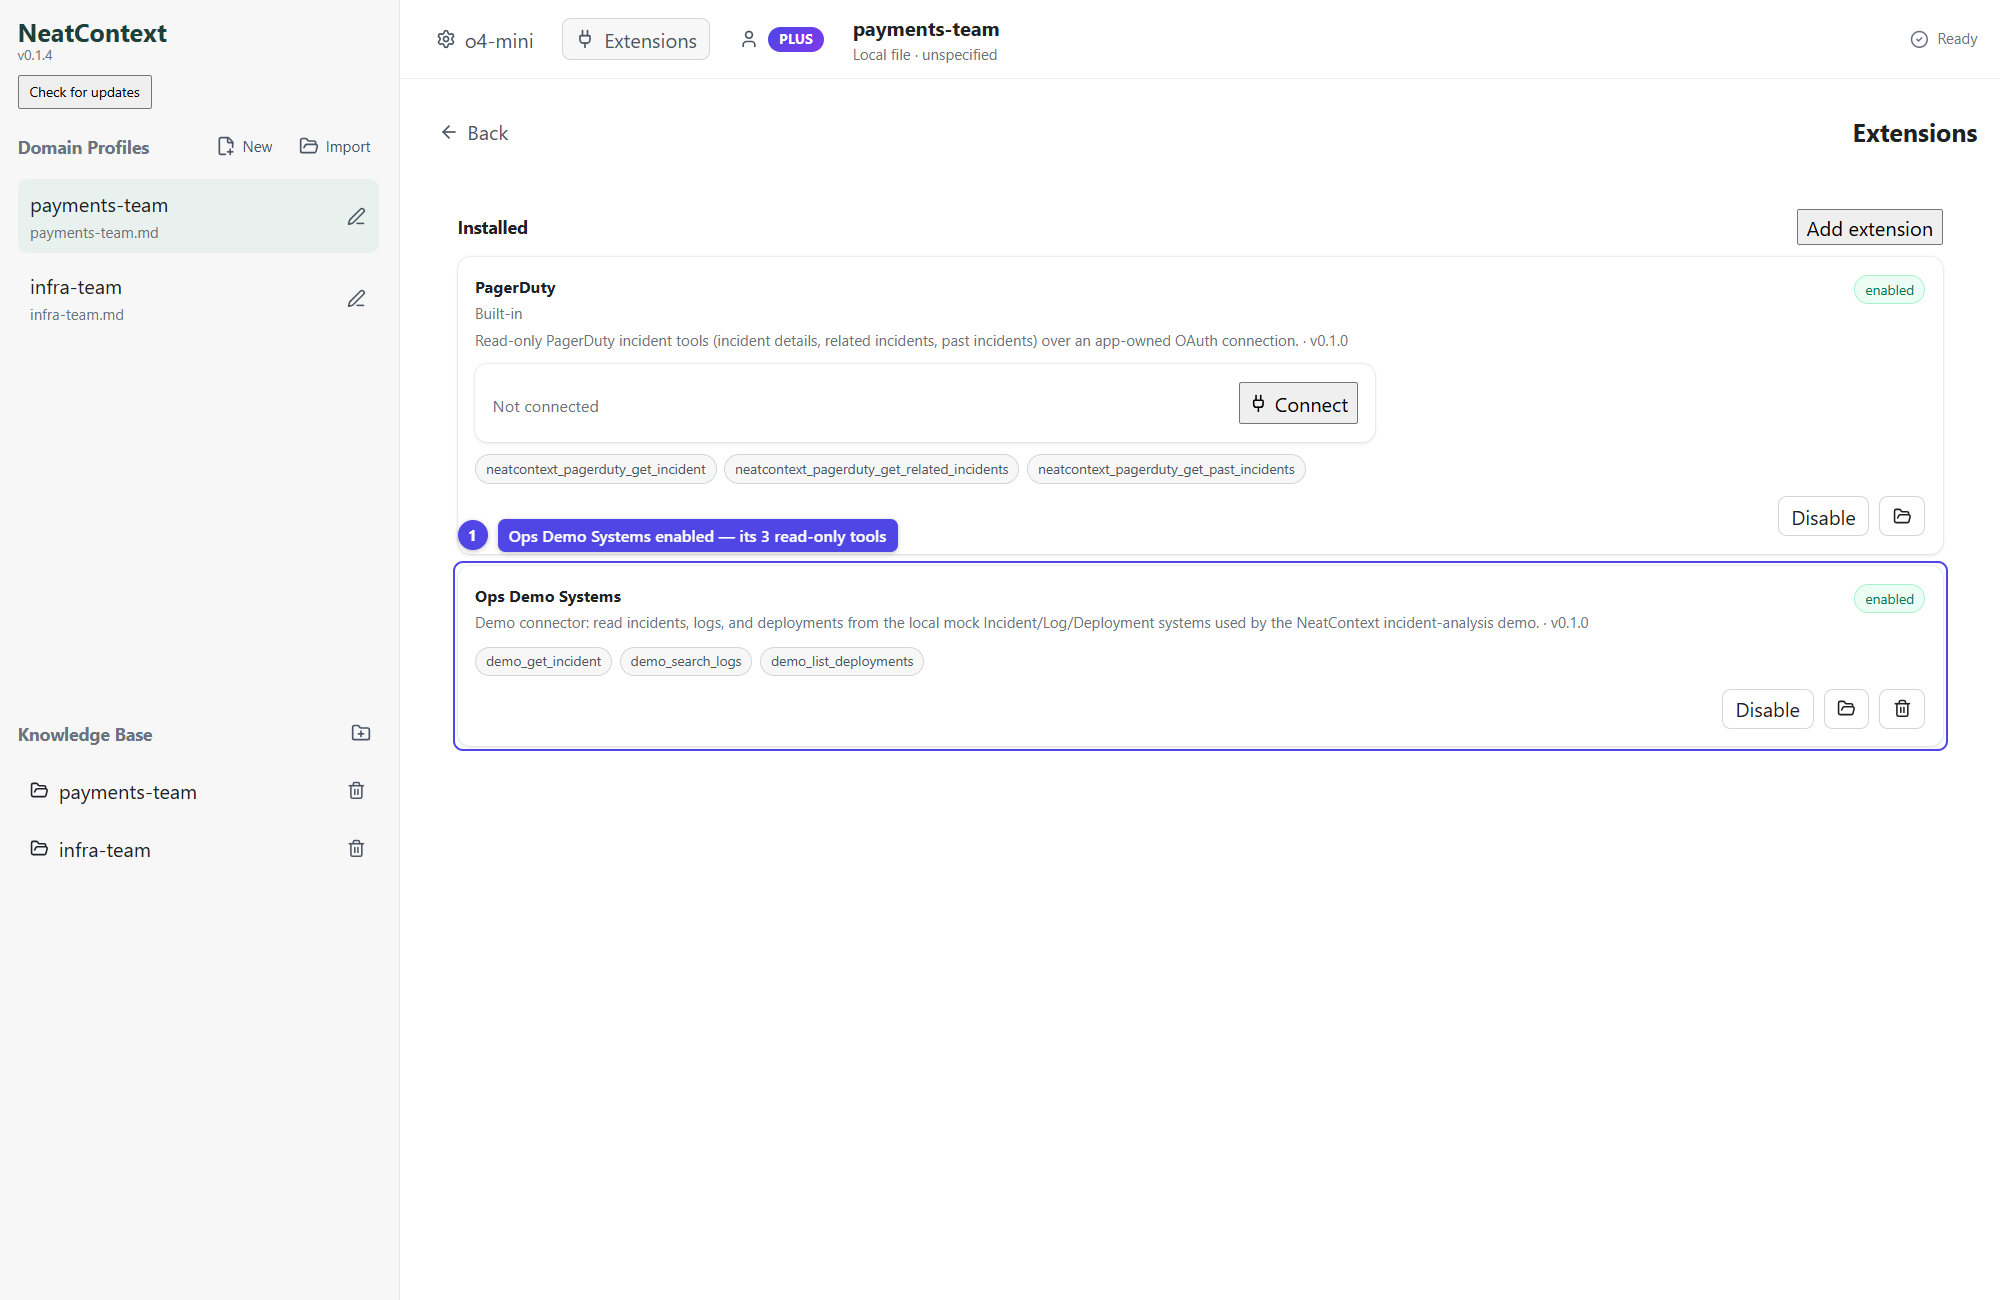
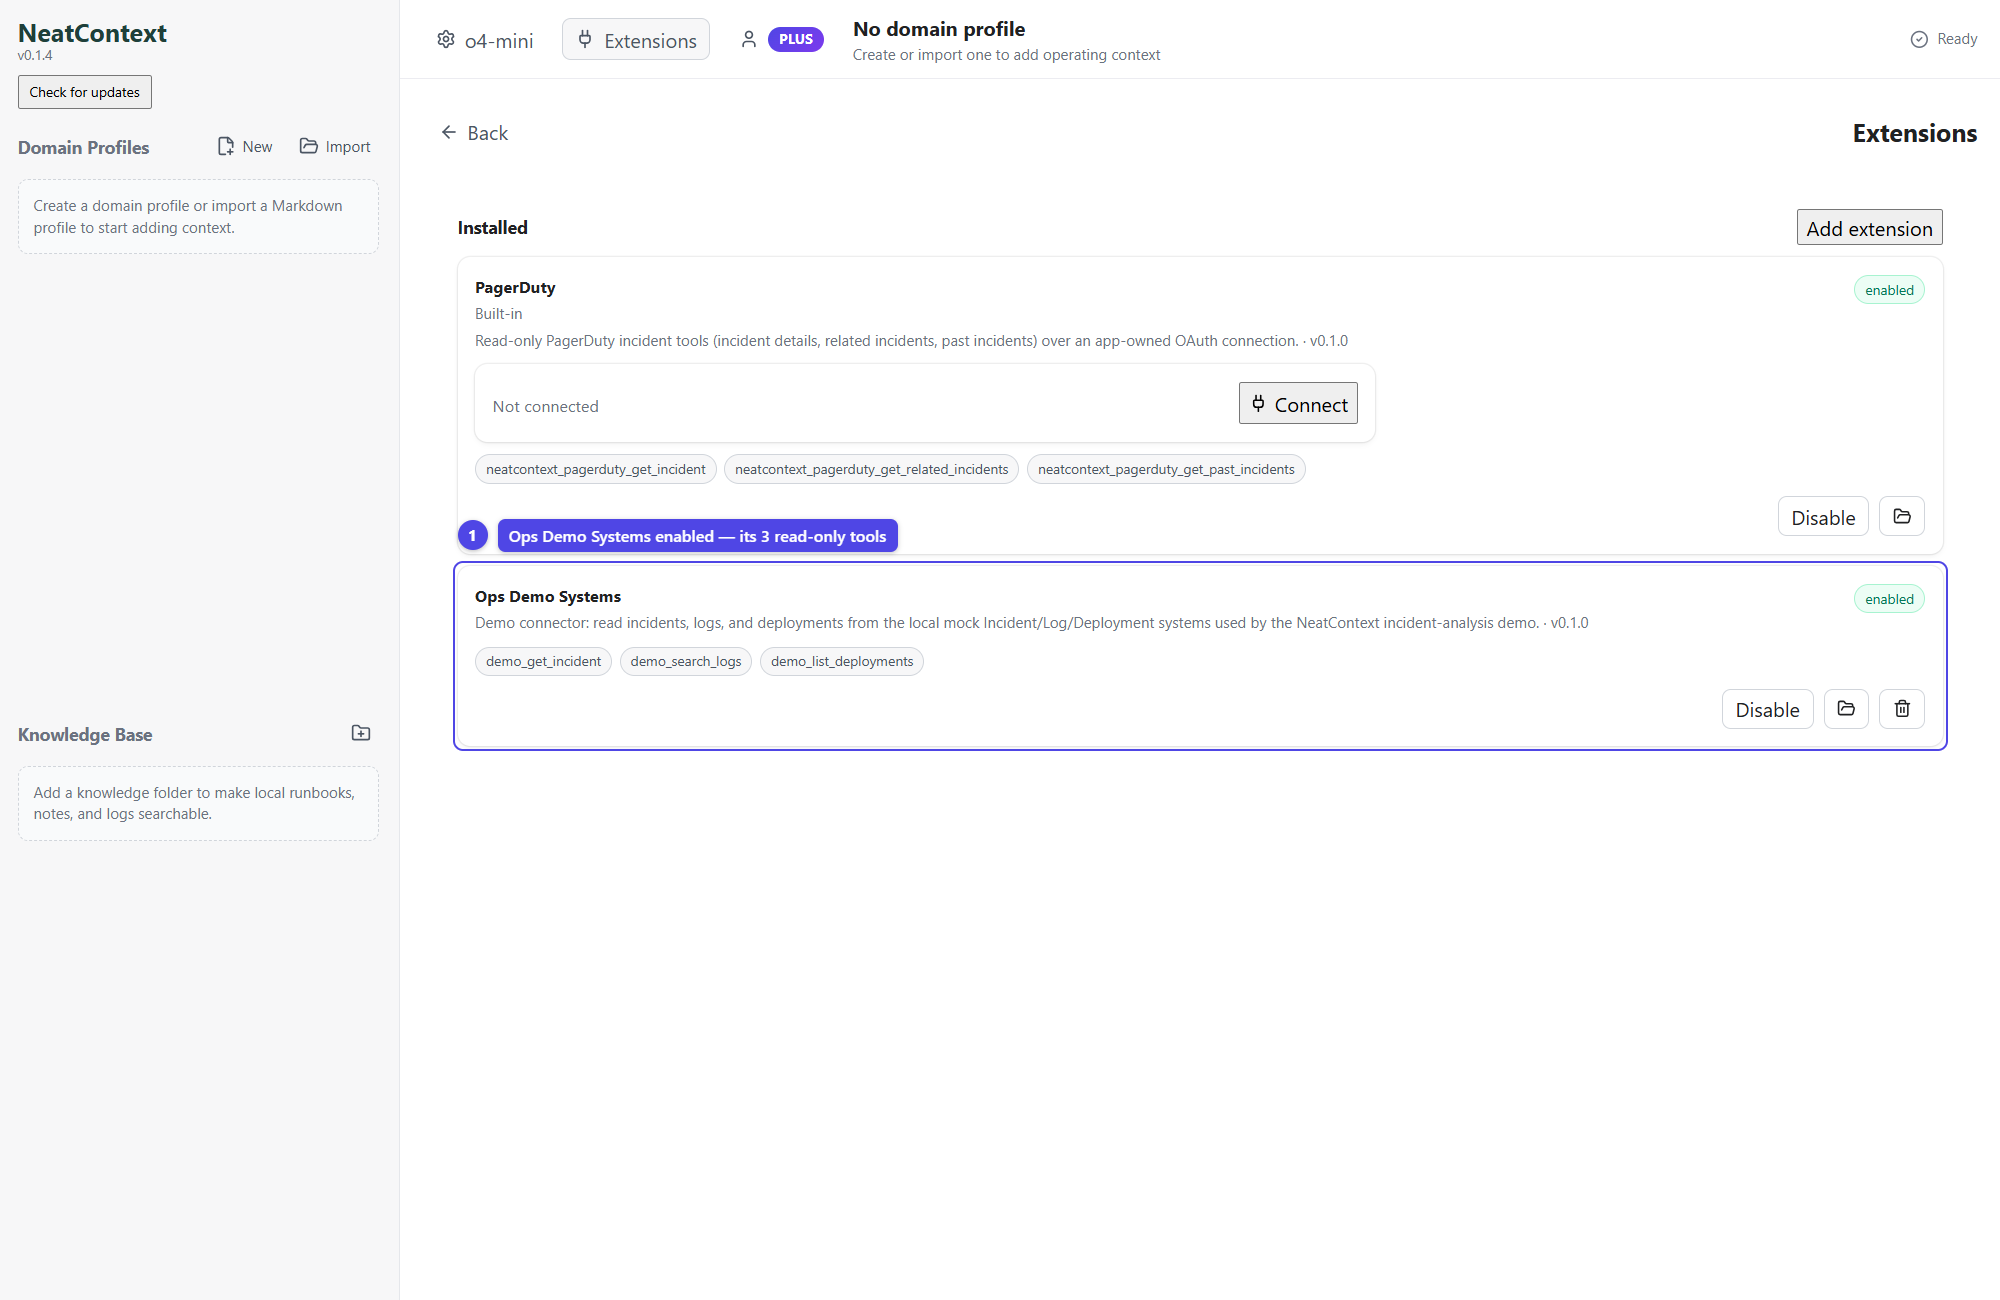
docs: show empty workspace in Steps 3-4 screenshots
Steps 3-4 (configure model, add extension) happen before any domain profile or
knowledge base is imported (that's Step 5+), so 03/04 should show an empty
sidebar. Reshoot both with no profiles/folders and fix the Step 3 caption that
said "profiles on the left".

diff --git a/README.md b/README.md
@@ -81,8 +81,8 @@ not need you to accept anything; it's configured to trust the demo cert.
 2. Open model settings and add your LLM provider (base URL, API key, model name).
    Pick a tool-calling-capable model and make it the active model.
 
-The freshly opened app — the active model shows in the top bar, profiles on the
-left:
+The freshly opened app — your active model shows in the top bar. The workspace
+starts empty; you'll add a domain profile and knowledge base in Steps 5–6:
 
 ![NeatContext just opened](images/03-open-neatcontext.png)
 